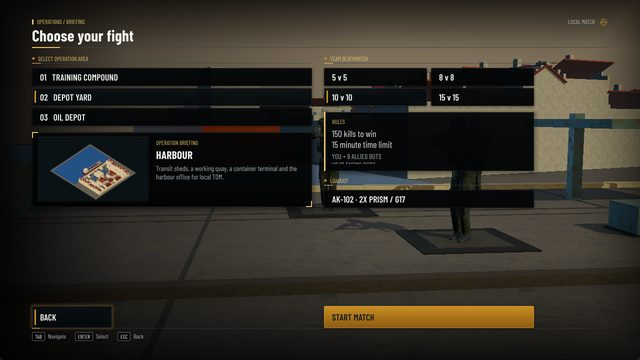
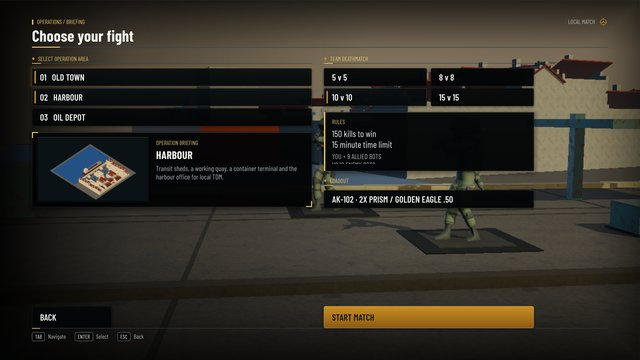
Delivery 0.3.26: installer evidence, site and README for v0.3.26
Deliver.ps1 on clean 232c645 PASS (native content, IL2CPP client, smoke,
package, installer). Installer SHA-256 a4a2c9c2...ca86, 98,074,711 bytes.

Site and README now point at v0.3.26. Screenshots are recaptured from the
0.3.26 player and show the licensed authored soldiers; the night staging
shot (old procedural bodies) is replaced by a Harbour firefight. Copy no
longer claims "no imported art", since soldiers and fire/smoke are pinned
CC0 packs (ADR-124, ADR-126).

diff --git a/site/index.html b/site/index.html
@@ -4,12 +4,12 @@
   <meta charset="utf-8">
   <meta name="viewport" content="width=device-width, initial-scale=1">
   <title>Shooter: procedural military FPS</title>
-  <meta name="description" content="Shooter is an offline military FPS for Windows where every mesh, material, rig and animation is generated from code. Team Deathmatch against bots on three procedural maps.">
+  <meta name="description" content="Shooter is an offline military FPS for Windows. Its maps, weapons and gear are generated from code; its soldiers and fire effects are licensed CC0 art. Team Deathmatch against bots on three procedural maps.">
   <meta name="theme-color" content="#0b0d10">
   <link rel="icon" href="assets/favicon.svg" type="image/svg+xml">
   <meta property="og:type" content="website">
   <meta property="og:title" content="Shooter: procedural military FPS">
-  <meta property="og:description" content="Every mesh, material, rig and animation generated from code. Offline Team Deathmatch against bots, 5v5 to 15v15.">
+  <meta property="og:description" content="Maps, weapons and gear generated from code. Offline Team Deathmatch against bots, 5v5 to 15v15.">
   <meta property="og:image" content="https://maks417.github.io/shooter/assets/og-image.jpg">
   <meta property="og:url" content="https://maks417.github.io/shooter/">
   <meta name="twitter:card" content="summary_large_image">
@@ -45,12 +45,12 @@
       <div class="hero-scan" aria-hidden="true"></div>
       <div class="hero-inner">
         <p class="eyebrow"><span class="pip"></span>Offline battles / Team Deathmatch</p>
-        <h1>Every bullet,<br>wall and soldier<br><em>built from code.</em></h1>
-        <p class="lede">Shooter is a military first-person shooter for Windows with no imported art. Geometry, materials, rigs and motion all come from numeric recipes. Drop into Team Deathmatch against allied and enemy bots on three procedural maps.</p>
+        <h1>Every bullet,<br>wall and weapon<br><em>built from code.</em></h1>
+        <p class="lede">Shooter is a military first-person shooter for Windows. Its maps, weapons and soldier gear come from numeric recipes, and its soldiers wear licensed CC0 bodies and animation. Drop into Team Deathmatch against allied and enemy bots on three procedural maps.</p>
         <div class="cta">
-          <a class="btn btn-primary" href="https://github.com/Maks417/shooter/releases/download/v0.3.25/Shooter-Setup-0.3.25.exe">
+          <a class="btn btn-primary" href="https://github.com/Maks417/shooter/releases/download/v0.3.26/Shooter-Setup-0.3.26.exe">
             <svg viewBox="0 0 24 24" aria-hidden="true"><path d="M12 3v12m0 0-5-5m5 5 5-5M4 20h16" fill="none" stroke="currentColor" stroke-width="2.4" stroke-linecap="square"/></svg>
-            <span><strong>Download for Windows</strong><small>v0.3.25 · 94 MB · playtest build</small></span>
+            <span><strong>Download for Windows</strong><small>v0.3.26 · 98 MB · playtest build</small></span>
           </a>
           <a class="btn btn-ghost" href="https://github.com/Maks417/shooter">View source on GitHub</a>
         </div>
@@ -58,7 +58,7 @@
           <div><dt>Maps</dt><dd>03</dd></div>
           <div><dt>Team sizes</dt><dd>5v5–15v15</dd></div>
           <div><dt>Simulation</dt><dd>60 Hz</dd></div>
-          <div><dt>Imported art</dt><dd>000</dd></div>
+          <div><dt>Max bots</dt><dd>29</dd></div>
         </dl>
       </div>
     </section>
@@ -71,8 +71,8 @@
       <div class="features">
         <article class="card">
           <span class="card-num">01</span>
-          <h3>Procedural everything</h3>
-          <p>Buildings, terrain, weapons, soldiers, their skeletons and their animation are all generated deterministically from recipes. There are no imported meshes, painted textures or mocap clips.</p>
+          <h3>Procedural world</h3>
+          <p>Buildings, terrain, weapons and soldier gear are generated deterministically from recipes. Soldier bodies, their animation clips and the fire and smoke flipbooks are pinned CC0 art packs.</p>
         </article>
         <article class="card">
           <span class="card-num">02</span>
@@ -96,12 +96,12 @@
       <header class="section-head">
         <p class="eyebrow"><span class="pip"></span>Recon</p>
         <h2>Screenshots</h2>
-        <p class="section-sub">Captured from the v0.3.25 Windows build. Click any image to enlarge it.</p>
+        <p class="section-sub">Captured from the v0.3.26 Windows build. Click any image to enlarge it.</p>
       </header>
       <div class="gallery">
-        <figure class="shot shot-lg"><a href="assets/combat.jpg" data-caption="Combat at Depot Yard: compact tactical HUD with minimap, score and ammo"><img src="assets/combat.jpg" alt="First-person view holding a scoped rifle inside a warehouse while enemy soldiers move between containers" loading="lazy" width="1280" height="720"></a></figure>
-        <figure class="shot"><a href="assets/staging.jpg" data-caption="Procedurally rigged soldiers in the staging area"><img src="assets/staging-sm.jpg" alt="Three camouflaged soldiers aiming rifles on a concrete staging pad at night" loading="lazy" width="640" height="360"></a></figure>
-        <figure class="shot"><a href="assets/menu.jpg" data-caption="Main menu over a live map vista"><img src="assets/menu-sm.jpg" alt="Main menu with operation cards for three maps over a 3D view of soldiers on a rooftop" loading="lazy" width="640" height="360"></a></figure>
+        <figure class="shot shot-lg"><a href="assets/combat.jpg" data-caption="Aiming down the scope at Harbour: an ally and an enemy trade fire through the smoke"><img src="assets/combat.jpg" alt="Scoped first-person view of a green-uniformed ally and a tan-uniformed enemy firing at each other in a yard, with dark smoke behind them" loading="lazy" width="1280" height="720"></a></figure>
+        <figure class="shot"><a href="assets/firefight.jpg" data-caption="Firefight in the Harbour yards, with the kill feed and minimap"><img src="assets/firefight-sm.jpg" alt="First-person view down a walled yard where a soldier runs with a rifle while smoke rises and the kill feed lists recent kills" loading="lazy" width="640" height="360"></a></figure>
+        <figure class="shot"><a href="assets/menu.jpg" data-caption="Main menu over a live map vista"><img src="assets/menu-sm.jpg" alt="Main menu with operation cards for three maps over a 3D view of three soldiers aiming rifles on a quay" loading="lazy" width="640" height="360"></a></figure>
         <figure class="shot"><a href="assets/briefing.jpg" data-caption="Operation briefing: pick the map, team size and loadout"><img src="assets/briefing-sm.jpg" alt="Match setup screen with map list, team size buttons and rules" loading="lazy" width="640" height="360"></a></figure>
         <figure class="shot"><a href="assets/match-start.jpg" data-caption="Countdown to deployment"><img src="assets/match-start-sm.jpg" alt="Match starts in 5 countdown over a first-person rifle view" loading="lazy" width="640" height="360"></a></figure>
         <figure class="shot"><a href="assets/pause.jpg" data-caption="Pause menu"><img src="assets/pause-sm.jpg" alt="Pause menu with resume, settings, restart and main menu commands" loading="lazy" width="640" height="360"></a></figure>
@@ -156,7 +156,7 @@
       <ol class="pipeline">
         <li>
           <span class="step">Recipes</span>
-          <p>Numeric recipes describe maps, weapons, soldiers and materials. Their formats are frozen and hash-locked.</p>
+          <p>Numeric recipes describe maps, weapons, soldier gear and materials. Their formats are frozen and hash-locked, and every licensed art file is pinned by hash.</p>
         </li>
         <li>
           <span class="step">Generators</span>
@@ -206,26 +206,26 @@
       <div class="download">
         <div class="download-copy">
           <p class="eyebrow"><span class="pip"></span>Deploy</p>
-          <h2>Get v0.3.25</h2>
+          <h2>Get v0.3.26</h2>
           <p>This is a playtest build: it's playable, but still rough around the edges. You'll need 64-bit Windows 10 or 11 and a Direct3D 11 GPU. It installs per user, so you don't need admin rights.</p>
           <p class="note">The installer isn't code-signed, so Windows SmartScreen may warn you. Choose <em>More info → Run anyway</em>.</p>
           <div class="cta">
-            <a class="btn btn-primary" href="https://github.com/Maks417/shooter/releases/download/v0.3.25/Shooter-Setup-0.3.25.exe">
+            <a class="btn btn-primary" href="https://github.com/Maks417/shooter/releases/download/v0.3.26/Shooter-Setup-0.3.26.exe">
               <svg viewBox="0 0 24 24" aria-hidden="true"><path d="M12 3v12m0 0-5-5m5 5 5-5M4 20h16" fill="none" stroke="currentColor" stroke-width="2.4" stroke-linecap="square"/></svg>
-              <span><strong>Shooter-Setup-0.3.25.exe</strong><small>Windows installer · 94 MB</small></span>
+              <span><strong>Shooter-Setup-0.3.26.exe</strong><small>Windows installer · 98 MB</small></span>
             </a>
-            <a class="btn btn-ghost" href="https://github.com/Maks417/shooter/releases/tag/v0.3.25">Release notes</a>
+            <a class="btn btn-ghost" href="https://github.com/Maks417/shooter/releases/tag/v0.3.26">Release notes</a>
           </div>
           <div class="hash">
             <span>SHA-256</span>
-            <code>3e3264414d24b465753b468435dce96356326864f831dc522827e794e34ac4c0</code>
+            <code>a4a2c9c250c9bcc79061dbcbcbf684529bfcba5d14953ed3e516694afcf2ca86</code>
           </div>
         </div>
         <aside class="known">
           <h3>Known limitations</h3>
           <ul>
             <li>Manual playtesting across every map and team size is still in progress.</li>
-            <li>Some soldier visual details (skin, straps, sights) have known residual defects.</li>
+            <li>The new authored soldier bodies and animation blending still need a full playtest review.</li>
             <li>The environment, weapon and hand-animation redesign is ongoing.</li>
             <li>Performance on the reference machine hasn't been measured yet.</li>
           </ul>

diff --git a/docs/next-playable-build.md b/docs/next-playable-build.md
@@ -4,16 +4,11 @@ This is the only page that tracks current status: the build, open findings, open
 
 ## Current build
 
-**Latest installer: 0.3.24 (2026-11-18).**
-- Installer: `Artifacts/deliveries/Shooter-Setup-0.3.24.exe`, from clean source `53cce26` ([delivery evidence](milestones/m11-playable-release/handoff.md#delivery-0324)).
-- Passed: native packages, IL2CPP Client, smoke, package and installer builders, pure lanes, and Unity EditMode/PlayMode.
-- Still Pending: an actual install/upgrade, a playtest of this build, the Low benchmark with the new shadows, and all acceptance.
-
-**Committed since 0.3.24, not yet in an installer (2026-11-19):**
-- [ADR-117](decisions.md#adr-117--accepted-single-point-collimator-dot-and-12x-collimator-zoom): single-dot 1.2x collimator.
-- [ADR-118](decisions.md#adr-118--accepted-m4a1-mk-16-m24-sws-and-m870-pellets-shell-reloads-and-geometryweapon-150): M4A1, Mk 16, M24 SWS and the M870 shotgun.
-- [ADR-119](decisions.md#adr-119--accepted-30-rank-career-ladder-and-four-new-perks): a 30-rank career and four new perks.
-- Pure lanes and Unity EditMode/PlayMode pass ([record](milestones/m11-playable-release/handoff.md#adr-119-30-rank-career--2026-11-19)). Content republish, build and playtest are Pending.
+**Latest installer: 0.3.26 (2026-11-27).**
+- Installer: `Artifacts/deliveries/Shooter-Setup-0.3.26.exe`, from clean source `232c645` ([delivery evidence](milestones/m11-playable-release/handoff.md#delivery-0326--2026-11-27)). Published as the GitHub pre-release `v0.3.26`.
+- Contents beyond 0.3.25 (`f9c3611`, which carried ADR-117–123): licensed authored soldiers ([ADR-124](decisions.md#adr-124--accepted-licensed-authored-art-track-characters-first)), lethal bolt snipers ([ADR-125](decisions.md#adr-125--accepted-bolt-action-snipers-kill-on-any-hit)), licensed fire and smoke ([ADR-126](decisions.md#adr-126--accepted-licensed-fire-and-smoke-flipbooks-and-burning-wrecks)).
+- Passed: native packages, IL2CPP Client, smoke, package and installer builders, and Unity EditMode/PlayMode on this source.
+- Still Pending: an actual install/upgrade over 0.3.25, a playtest of this build, the TDM-5v5 Low benchmark, and all acceptance.
 
 ## Product and scope
 
@@ -62,9 +57,9 @@ C01 (native NavMesh publication) and C03 (truthful path outcomes) are resolved.
 | T095 audio placeholders | Replace the bullet flyby, defeat stinger and outdoor ambience ([steps](features/audio.md#follow-up-placeholders)), then an owner listening review |
 | T195 architecture and pipelines (owner-assigned 2026-11-19) | **Phase 1 (pipeline and disk) landed**: build debug folders removed, hard-linked staging, opt-in ZIP, shared pure/native map payloads, cached Core RP check, wrapper pruning and CI caches ([runbook](bootstrap-runbook.md#content-build-package-and-installer)). **Phase 2 landed** ([ADR-120](decisions.md#adr-120--accepted-parked-networking-behind-a-define-and-build-once-pure-lanes)): `Test-All.ps1` over `Tools/Shooter.Pure.slnx`, Networking behind `SHOOTER_NETWORKING` with its own `Test-Networking.ps1`, `Compile-GameContent -AndBuildClient` and `Deliver.ps1`. **Phase 3 in progress:** landed the read-only session port (`Game.SessionPorts`), per-actor view state, generated kill-feed/report tables, tick phases, token-hashed feature lock with refreeze commands for every lock ([ADR-121](decisions.md#adr-121--accepted-feature-lock-hashes-c-code-tokens-and-every-lock-has-a-refreeze-command)) and mode rules as data ([ADR-122](decisions.md#adr-122--accepted-mode-rules-as-data-and-team-indexed-kills-game-v1-additive)). Also landed: `CombatAiDirector`, `ProductSessionView` and `ProductShellHost` split by concern into partial files, and table-driven client modes. Not pursued: a diagnostics define, because the gallery and rig tools run from the client build. Pending: a client build, delivery and playtest of this source. |
 | T196 unified front-end visual system (owner-assigned 2026-11-19, [ADR-123](decisions.md#adr-123--accepted-unified-front-end-visual-system)) | **Landed in source:**<br>• UI tokens with contrast and literal guards<br>• frame language, shared header and key-hint footer<br>• pure Main, Settings and Armory layouts<br>• real-map rooftop vista behind the menus<br>• restyled Setup, Armory, Settings, Loading, Pause, Confirm, Recovery, Results and the HUD<br>• brand emblem app icon (native per size)<br>• generated installer icon and wizard art<br><br>**Pending:**<br>• a client build and installer of this source<br>• 720p/1080p captures at 100%/150%<br>• the menu frame time on the reference laptop (PendingHardware)<br>• named owner review (VD7, REL03, UI02) |
-| T232 licensed authored soldiers (owner-assigned 2026-11-27, [ADR-124](decisions.md#adr-124--accepted-licensed-authored-art-track-characters-first)) | **Landed in source:**<br>• ADR-124 art track: `Tools/art-sources.json` pins, provenance and player-build guards, code-owned import settings<br>• `AuthoredSoldierBody`: clip locomotion and death on a code-built Playables graph, procedural upper body retargeted onto the humanoid, hands solved onto the grips<br>• generated `SoldierGearKit` (helmet, goggles, plate carrier or chest rig, pouches, backpack, belt, knee pads) on the humanoid bones<br>• deterministic variant pick per actor; release credits<br><br>**Landed with art:** CC0 Quaternius Modular Men Swat body in six variants, Modular Men and Universal Animation Library clips; EditMode 102/102 including authored hit-volume alignment (`Tools/Capture-SoldierSkins.ps1` renders the review sheet).<br><br>**Pending:**<br>• client build, in-game captures and the TDM-5v5 benchmark on the reference laptop<br>• P05/REL03 named owner review |
-| T233 licensed fire and smoke (owner-assigned 2026-11-27, [ADR-126](decisions.md#adr-126--accepted-licensed-fire-and-smoke-flipbooks-and-burning-wrecks)) | **Landed in source:**<br>• six CC0 Unity Labs flipbooks pinned in the art track, code-owned import settings, `FxArtCatalog` with no fallback<br>• licensed grenade fireball, fire puffs, muzzle fire ball, gun smoke, blast smoke and dust, impact and footstep dust<br>• frame blending, smoke lighting and fire glow in `CombatParticle`<br>• burning wrecks on up to four map vehicles (two on Low)<br>• EditMode 105/105; `Tools/Capture-Fx.ps1` renders the review sheet ([record](milestones/m11-playable-release/handoff.md#adr-126-licensed-fire-and-smoke-flipbooks--2026-11-27))<br><br>**Pending:**<br>• client build, in-game captures and the TDM-5v5 Low benchmark on the reference laptop (fill cost, RSK03)<br>• named owner review of the effects |
-| ADR-125 lethal bolt snipers (owner request 2026-11-27, [ADR-125](decisions.md#adr-125--accepted-bolt-action-snipers-kill-on-any-hit)) | **Landed in source:** M24 SWS and M-TAC 338 kill with any hit at any range (`lethalOnHit`); pure lanes ([record](milestones/m11-playable-release/handoff.md#adr-125-bolt-action-snipers-kill-on-any-hit--2026-11-27)).<br><br>**Pending:** client build and installer of this source, owner in-game balance check |
+| T232 licensed authored soldiers (owner-assigned 2026-11-27, [ADR-124](decisions.md#adr-124--accepted-licensed-authored-art-track-characters-first)) | **Landed in source:**<br>• ADR-124 art track: `Tools/art-sources.json` pins, provenance and player-build guards, code-owned import settings<br>• `AuthoredSoldierBody`: clip locomotion and death on a code-built Playables graph, procedural upper body retargeted onto the humanoid, hands solved onto the grips<br>• generated `SoldierGearKit` (helmet, goggles, plate carrier or chest rig, pouches, backpack, belt, knee pads) on the humanoid bones<br>• deterministic variant pick per actor; release credits<br><br>**Landed with art:** CC0 Quaternius Modular Men Swat body in six variants, Modular Men and Universal Animation Library clips; EditMode 102/102 including authored hit-volume alignment (`Tools/Capture-SoldierSkins.ps1` renders the review sheet).<br><br>**Pending:**<br>• in 0.3.26 (client build PASS); in-game review and the TDM-5v5 benchmark on the reference laptop<br>• P05/REL03 named owner review |
+| T233 licensed fire and smoke (owner-assigned 2026-11-27, [ADR-126](decisions.md#adr-126--accepted-licensed-fire-and-smoke-flipbooks-and-burning-wrecks)) | **Landed in source:**<br>• six CC0 Unity Labs flipbooks pinned in the art track, code-owned import settings, `FxArtCatalog` with no fallback<br>• licensed grenade fireball, fire puffs, muzzle fire ball, gun smoke, blast smoke and dust, impact and footstep dust<br>• frame blending, smoke lighting and fire glow in `CombatParticle`<br>• burning wrecks on up to four map vehicles (two on Low)<br>• EditMode 105/105; `Tools/Capture-Fx.ps1` renders the review sheet ([record](milestones/m11-playable-release/handoff.md#adr-126-licensed-fire-and-smoke-flipbooks--2026-11-27))<br><br>**Pending:**<br>• in 0.3.26 (client build PASS); in-game review and the TDM-5v5 Low benchmark on the reference laptop (fill cost, RSK03)<br>• named owner review of the effects |
+| ADR-125 lethal bolt snipers (owner request 2026-11-27, [ADR-125](decisions.md#adr-125--accepted-bolt-action-snipers-kill-on-any-hit)) | **Landed in source:** M24 SWS and M-TAC 338 kill with any hit at any range (`lethalOnHit`); pure lanes ([record](milestones/m11-playable-release/handoff.md#adr-125-bolt-action-snipers-kill-on-any-hit--2026-11-27)).<br><br>**Pending:** owner in-game balance check on 0.3.26 |
 
 Every feature since ADR-096 is in the installer. Each still needs owner review in play:
 
@@ -82,7 +77,7 @@ Every feature since ADR-096 is in the installer. Each still needs owner review i
 
 ## Order of remaining work
 
-1. **Build and install the next installer.** It includes ADR-117–119. Do a real upgrade over 0.3.24.
+1. **Install the 0.3.26 installer** as a real upgrade over 0.3.25 (it includes ADR-117–126).
 2. **T071 formal playtest on that installer.** Follow the [playtest guide](playtest-guide.md):
    - every map at 5v5, 8v8, 10v10 and 15v15;
    - at least one complete normal match per map;

diff --git a/README.md b/README.md
@@ -1,18 +1,18 @@
 # Shooter
 
-**An offline military FPS where every mesh, material, rig and animation is generated from code.**
+**An offline military FPS whose maps, weapons and gear are generated from code.**
 
 [![Shooter in combat](site/assets/combat.jpg)](https://maks417.github.io/shooter/)
 
-[**Website**](https://maks417.github.io/shooter/) · [**Download v0.3.25 for Windows**](https://github.com/Maks417/shooter/releases/tag/v0.3.25) · [Docs](docs/index.md)
+[**Website**](https://maks417.github.io/shooter/) · [**Download v0.3.26 for Windows**](https://github.com/Maks417/shooter/releases/tag/v0.3.26) · [Docs](docs/index.md)
 
-Shooter is a Unity 6 URP first-person shooter with no imported art. Geometry, materials, skeletons and motion all come from deterministic numeric recipes. You play Team Deathmatch against local allied and enemy bots, with no account, network or server.
+Shooter is a Unity 6 URP first-person shooter. Maps, weapons, soldier gear and materials come from deterministic numeric recipes; soldier bodies, their animation clips and the fire and smoke flipbooks are licensed CC0 art (see [License](#license)). You play Team Deathmatch against local allied and enemy bots, with no account, network or server.
 
-> **Status: playtest build.** v0.3.25 is playable but still in development. The [release notes](https://github.com/Maks417/shooter/releases/tag/v0.3.25) list known issues.
+> **Status: playtest build.** v0.3.26 is playable but still in development. The [release notes](https://github.com/Maks417/shooter/releases/tag/v0.3.26) list known issues.
 
 ## Features
 
-- **Procedural everything:** buildings, terrain, weapons, soldiers, rigs and animation are generated by seeded C# generators. There are no imported meshes, painted textures or mocap.
+- **Procedural world:** buildings, terrain, weapons and soldier gear are generated by seeded C# generators. The only authored art is the pinned CC0 soldier and effects packs.
 - **Team Deathmatch vs bots:** 5v5, 8v8, 10v10 or 15v15. A match ends at 150 kills or after 15 minutes.
 - **Three maps:** Training Compound (Old Town), Depot Yard (Harbour) and Oil Depot.
 - **Fixed 60 Hz simulation:** movement, combat, hit volumes and AI are authoritative and independent of rendering quality.

diff --git a/docs/milestones/m11-playable-release/handoff.md b/docs/milestones/m11-playable-release/handoff.md
@@ -2,6 +2,16 @@
 
 Evidence log for M11, newest first. Each delivery and change records identities, results and what stays Pending. Records before 2026-11-15 (deliveries up to 0.3.12, T062–T085) are in git history. Current status is in [next playable build](../../next-playable-build.md) and gates are in [acceptance](../../acceptance.md).
 
+## Delivery 0.3.26 — 2026-11-27
+
+`Tools/Deliver.ps1 -ForceContent -ReleaseVersion 0.3.26` on clean `232c645` PASS (`m11-playable-release/232c645…/deliver-20261127T115756252Z-83b980a5`). It carries ADR-124–126 and the ownership fix below on top of 0.3.25 (`f9c3611`).
+- Native content and IL2CPP Client: `m8-runtime-composition/232c645…/compile-gamecontent-20261127T115756499Z-a48f8812`, `m0-foundation/232c645…/build-client-20261127T115838929Z-d1508d88`.
+- Smoke PASS (`smoke-client-20261127T120428904Z-255a848e`); package PASS with native nav required, 1,245 inventory files (`package-20261127T120436876Z-8f7f92ef`).
[1 lines of base64/hex data omitted]
+- Published as the GitHub pre-release `v0.3.26`. The site and README screenshots were recaptured from this player with `Tools/Capture-UiReview.ps1` on Harbour at 10v10 (`Artifacts/site-captures/0.3.26/`). They are publicity images, not review or acceptance evidence.
+
+**Pending / NotClaimed:** an actual install and upgrade over 0.3.25, the T071 playtest of this build, the TDM-5v5 Low benchmark on the reference laptop, named owner review of the soldiers, effects and sniper balance, and REL01–REL06.
+
 ## ADR-124 authored soldier asset ownership fix — 2026-11-27
 
 The PlayMode 29/30 failure recorded under ADR-126 below is fixed. `MenuStagingLifetimeTests.DestroyingSuspendedStageReleasesMaterialsMeshesTexturesAndTargets` found imported FBX assets still referenced by the destroyed menu stage. These assets cannot be destroyed:
